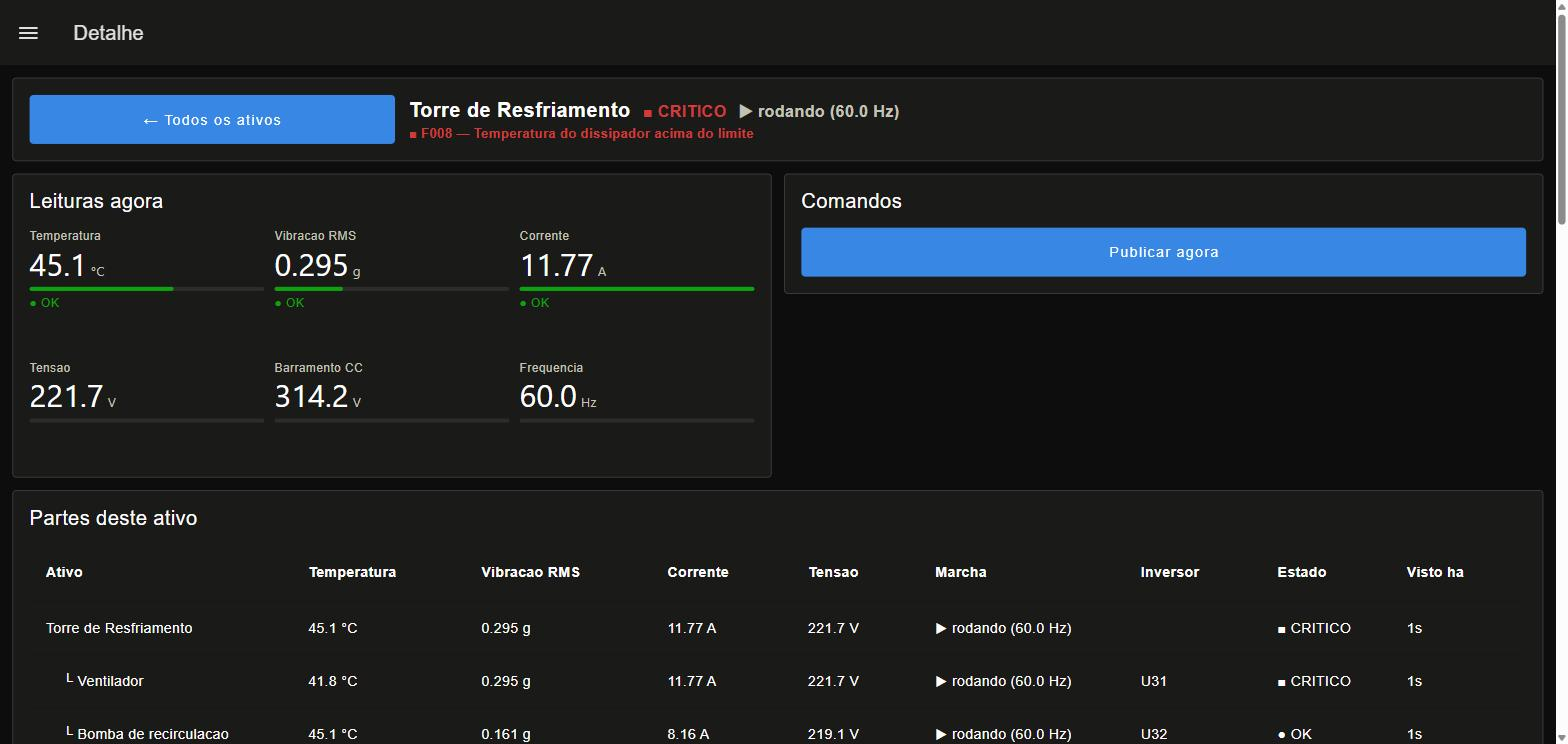
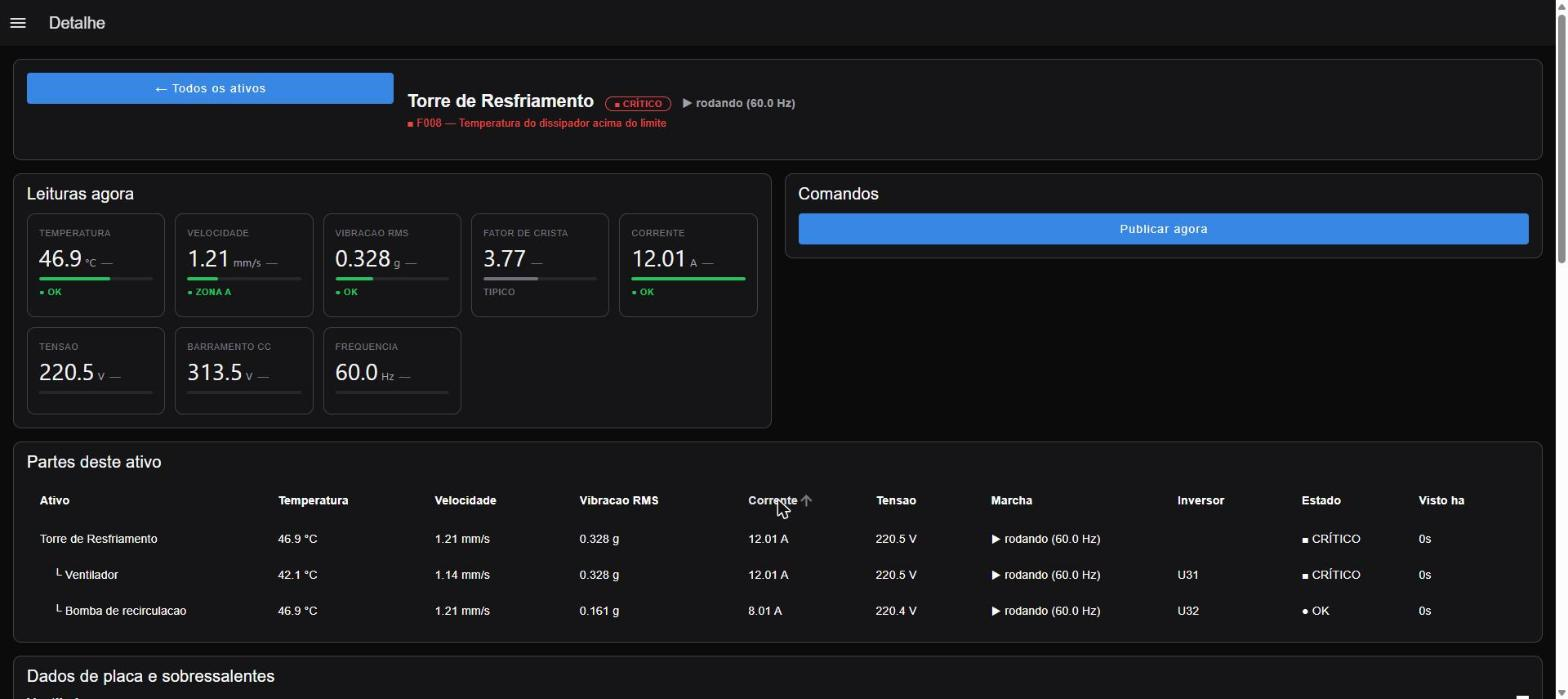
Imagens atualizadas e dois defeitos de layout achados ao captura-las
Todas as capturas de docs/img refeitas com a interface atual (velocidade em
mm/s nos cards, zonas ISO, fator de crista, linha do tempo sem barra de
rolagem). As antigas eram de antes de tudo isso.

Quatro imagens novas na serie: menu lateral, tabela de ativos, tendencias e
a escada de maturidade da IA -- existiam como arquivo mas nao estavam
listadas no DEMONSTRACAO.md.

DOIS DEFEITOS SO APARECERAM AO OLHAR A TELA:

1. FOTO DE PLAQUETA QUEBRADA. Quando o cadastro cita uma foto que nao esta
   em dados/fotos/, o navegador desenhava o icone de imagem quebrada --
   pior que assumir a ausencia, porque parece defeito do painel e nao
   arquivo faltando. Agora cai no mesmo aviso do caso "sem foto", com o
   texto trocado para "foto nao encontrada". Importa: e a tela que vai para
   reuniao com investidor.

2. CODIGO DE FALHA CORTADO AO MEIO. Com o inversor em falha o cabecalho
   ganha uma segunda linha ("F008 — Temperatura do dissipador acima do
   limite") e ela saia cortada. Ou seja: a informacao mais util da tela
   ficava ilegivel no unico momento em que importa.

   Aumentar a altura do GRUPO nao resolveu -- e a altura do WIDGET que
   manda. Descoberto tentando, e anotado no codigo para o proximo.

Claude-Session: https://claude.ai/code/session_019RcwGvcMskyCSoJ42CUaki

diff --git a/nodered/gera_flow.py b/nodered/gera_flow.py
@@ -150,7 +150,12 @@ grupo(G_CARDS,  "Ativos",  12, 3, altura=9, titulo=False)
 # --- Tela 2: detalhe de um ativo --------------------------------------
 # A altura dos grupos de grafico precisa caber o plot MAIS a faixa do eixo X;
 # com altura 1 o grafico vira um risco e o eixo some.
-grupo(G_CAB,    "",                       12, 1, altura=2, pagina=PAGINA_DET, titulo=False)
+# Altura 3, nao 2: quando o inversor esta em falha o cabecalho ganha uma
+# segunda linha com o codigo e o texto ("F008 — Temperatura do dissipador
+# acima do limite"), e com altura 2 ela saia cortada ao meio. Justamente a
+# informacao mais util da tela ficava ilegivel no unico momento em que
+# importa.
+grupo(G_CAB,    "",                       12, 1, altura=3, pagina=PAGINA_DET, titulo=False)
 # 8 tiles em 3 colunas = 3 linhas. Com altura 5 a terceira ficava cortada e
 # o grupo criava barra de rolagem propria.
 grupo(G_TILES,  "Leituras agora",          6, 2, altura=8, pagina=PAGINA_DET)
@@ -2103,8 +2108,12 @@ no(id="voltar_visao", type="function", z="flow_monitor", name="voltar",
 return { payload: { page: 'Visao Geral' } };
 """)
 
+# height 2, nao 1: com o inversor em falha o cabecalho ganha uma segunda
+# linha ("F008 — Temperatura do dissipador acima do limite") e ela saia
+# cortada ao meio. E a altura do WIDGET que manda aqui -- aumentar so a do
+# grupo nao resolve, como se descobriu tentando.
 no(id="cab_detalhe", type="ui-text", z="flow_monitor", group=G_CAB,
-   order=2, width="9", height="1", name="cabecalho do detalhe", label="",
+   order=2, width="9", height="2", name="cabecalho do detalhe", label="",
    format="{{msg.payload}}", layout="row-left", style=False, font="",
    fontSize=16, color="#717171", wrapText=True, className="",
    x=640, y=460, wires=[])
@@ -2126,12 +2135,19 @@ PLACA = r"""
             <div class="painel">
                 <div class="col foto-col">
                     <div class="titulo">Plaqueta</div>
-                    <a v-if="f.foto" :href="f.foto" target="_blank" rel="noopener">
+                    <!-- @error: o cadastro pode citar uma foto que nao esta
+                         em dados/fotos/. Sem esta guarda o navegador desenha
+                         o icone de imagem quebrada, que e pior que assumir a
+                         ausencia -- parece defeito do painel, e nao arquivo
+                         faltando. Ao falhar, cai no mesmo aviso do v-else. -->
+                    <a v-if="f.foto && !quebradas[f.foto]" :href="f.foto"
+                       target="_blank" rel="noopener">
                         <img :src="f.foto" class="foto"
+                             @error="quebradas = Object.assign({}, quebradas, { [f.foto]: true })"
                              :alt="'Plaqueta de ' + (f.titulo || 'motor')">
                     </a>
                     <div v-else class="semfoto">
-                        sem foto
+                        {{ f.foto ? 'foto nao encontrada' : 'sem foto' }}
                         <span class="dica">coloque em dados/fotos/ e cite no cadastro</span>
                     </div>
                 </div>
@@ -2170,7 +2186,9 @@ PLACA = r"""
 
 <script>
 export default {
-    data () { return { fichas: [] } },
+    // 'quebradas' guarda as fotos cujo carregamento falhou, por URL, para
+    // nao tentar de novo a cada re-render e nao piscar o icone quebrado.
+    data () { return { fichas: [], quebradas: {} } },
     watch: {
         msg: {
             immediate: true,

diff --git a/docs/DEMONSTRACAO.md b/docs/DEMONSTRACAO.md
@@ -103,6 +103,10 @@ Em [`img/demo/`](img/demo/), na ordem em que eu apresentaria:
 | 5 | `5-transporte-normal.jpg` | Detalhe de um ativo saudável — a referência |
 | 6 | `6-placa-sobressalentes.jpg` | Ficha de placa e sobressalentes, com o limite derivado da In |
 | 7 | `7-cadastro.jpg` | Tela de cadastro — dispositivo novo sendo atribuído a um ativo |
+| 8 | `8-menu-lateral.jpg` | Menu de navegação, com as sete telas |
+| 9 | `9-ativos.jpg` | Tabela completa da planta: ativo, partes e todas as grandezas |
+| 10 | `10-tendencias.jpg` | Tendência das três grandezas, uma série por dispositivo |
+| 11 | `11-roadmap-ia.jpg` | A escada de maturidade da preditiva, com o que já opera |
 
 ### O que cada tela de detalhe contém
 
@@ -110,9 +114,16 @@ A mesma estrutura em todos os ativos — o que muda é o que os dados dizem:
 
 1. **Cabeçalho** — nome, estado, marcha (`▶ rodando 60,0 Hz`), código de
    falha se houver, e a procedência (`sensor motor-01 · inversor U31`)
-2. **Leituras agora** — seis valores: temperatura, vibração e corrente com
-   barra contra o limite e estado; tensão, barramento CC e frequência como
-   leitura de referência (sem limite, porque não são critério de alarme)
+2. **Leituras agora** — oito valores. Temperatura, **velocidade em mm/s**,
+   vibração em g e corrente com barra contra o limite e estado; **fator de
+   crista** como leitura de diagnóstico; tensão, barramento CC e frequência
+   como referência (sem limite, porque não são critério de alarme).
+
+   A velocidade traz a **zona da ISO 20816** no lugar do rótulo genérico —
+   `ZONA C` diz por quanto tempo ainda se pode operar assim, o que
+   `ATENÇÃO` não diz. E o grupo da norma é derivado da própria plaqueta: um
+   motor de 7,5 kW é julgado por limites mais apertados que um de 30 kW,
+   sem ninguém configurar nada.
 3. **Partes deste ativo** — uma linha por motor + a linha consolidada, com
    a coluna `Inversor` trazendo a TAG do drive no painel
 4. **Dados de placa e sobressalentes** — ficha, foto da plaqueta e peças
